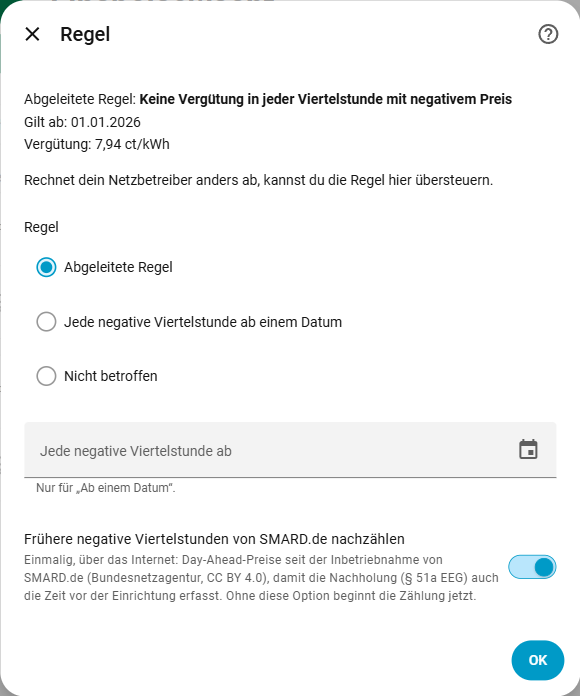
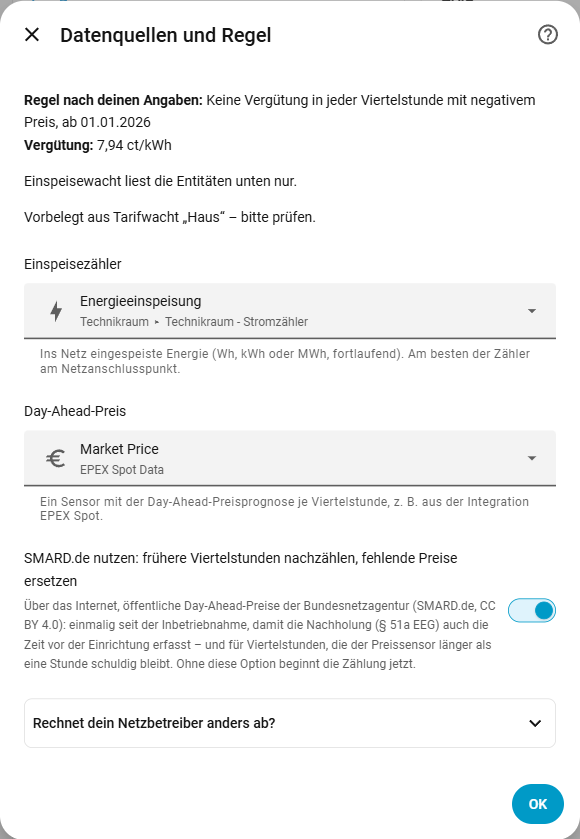
README: current screenshot of the setup form

diff --git a/README.md b/README.md
@@ -85,7 +85,7 @@ Drei Schritte; was nur wenige brauchen, ist eingeklappt.
 2. **Vergütung:** der Satz aus der Abrechnung deines Netzbetreibers in ct/kWh (nach Abzug der 0,4 ct). Anlagen über 10 kWp mit mehreren Sätzen öffnen „Mehrere Sätze nach Leistungsstufe“ und tragen danach den Satz je Stufe ein; Einspeisewacht bildet den Mischsatz (§ 23c EEG).
 3. **Datenquellen und Regel:** oben die Regel, die sich aus deinen Angaben ergibt, ab wann sie gilt, und der Satz. Darunter Einspeisezähler und Preissensor – hast du [Tarifwacht](https://github.com/tarifwacht/integration) eingerichtet, schlägt Einspeisewacht beide von dort vor – und die Option **SMARD.de nutzen**: Sie zählt frühere negative Viertelstunden nach, damit die Nachholung auch die Zeit vor der Einrichtung enthält, und springt ein, wenn der Preissensor ausfällt (öffentliche Preisdaten, siehe [Datenschutz](#datenschutz)). Rechnet dein Netzbetreiber anders ab, übersteuerst du die Regel unter „Rechnet dein Netzbetreiber anders ab?“ („jede negative Viertelstunde ab …“ oder „nicht betroffen“).
 
-<img src="https://raw.githubusercontent.com/einspeisewacht/integration/main/assets/screenshots/einrichtung_regel.png" alt="Letzter Einrichtungsschritt mit der abgeleiteten Regel" width="420">
+<img src="https://raw.githubusercontent.com/einspeisewacht/integration/main/assets/screenshots/einrichtung_regel.png" alt="Letzter Einrichtungsschritt: Regel nach deinen Angaben, Datenquellen, SMARD.de" width="420">
 
 Mehrere Anlagen oder Zähler: je einen Eintrag anlegen. Ändern: *Einspeisewacht → Eintrag → ⋮ → Neu konfigurieren*. Dort steht oben eine kurze Übersicht – Anlage, Satz, welche Regel heute gilt, Zähler, Preis, SMARD.de – und darunter, was fehlt und was das kostet (z. B. „Einspeisezähler nicht gefunden – bis er wieder da ist, wird nichts gebucht“).
 

diff --git a/README.en.md b/README.en.md
@@ -83,7 +83,7 @@ Three steps; what few people need is collapsed.
 2. **Remuneration:** the rate from your grid operator's statement in ct/kWh (after the 0.4 ct deduction). Plants above 10 kWp with several rates open "Several rates by capacity band" and then enter the rate per band; Einspeisewacht forms the blended rate (§ 23c EEG).
 3. **Data sources and rule:** on top the rule that follows from your details, when it starts and the rate. Below the feed-in meter and the price sensor – if you have set up [Tarifwacht](https://github.com/tarifwacht/integration), Einspeisewacht proposes both from there – and the option **Use SMARD.de**: it counts earlier negative quarter hours so the extension covers the time before setup too, and stands in when the price sensor fails (public price data, see [Privacy](#privacy)). If your grid operator settles differently, override the rule under "Does your grid operator settle differently?" ("every negative quarter hour from …" or "not affected").
 
-<img src="https://raw.githubusercontent.com/einspeisewacht/integration/main/assets/screenshots/einrichtung_regel.png" alt="Last setup step with the derived rule (German UI)" width="420">
+<img src="https://raw.githubusercontent.com/einspeisewacht/integration/main/assets/screenshots/einrichtung_regel.png" alt="Last setup step: the derived rule, data sources, SMARD.de (German UI)" width="420">
 
 Several plants or meters: one entry each. To change: *Einspeisewacht → entry → ⋮ → Reconfigure*. It starts with a short overview – plant, rate, which rule applies today, meter, price, SMARD.de – and below it what is missing and what that costs (e.g. "Feed-in meter not found – nothing is booked until it is back").
 
